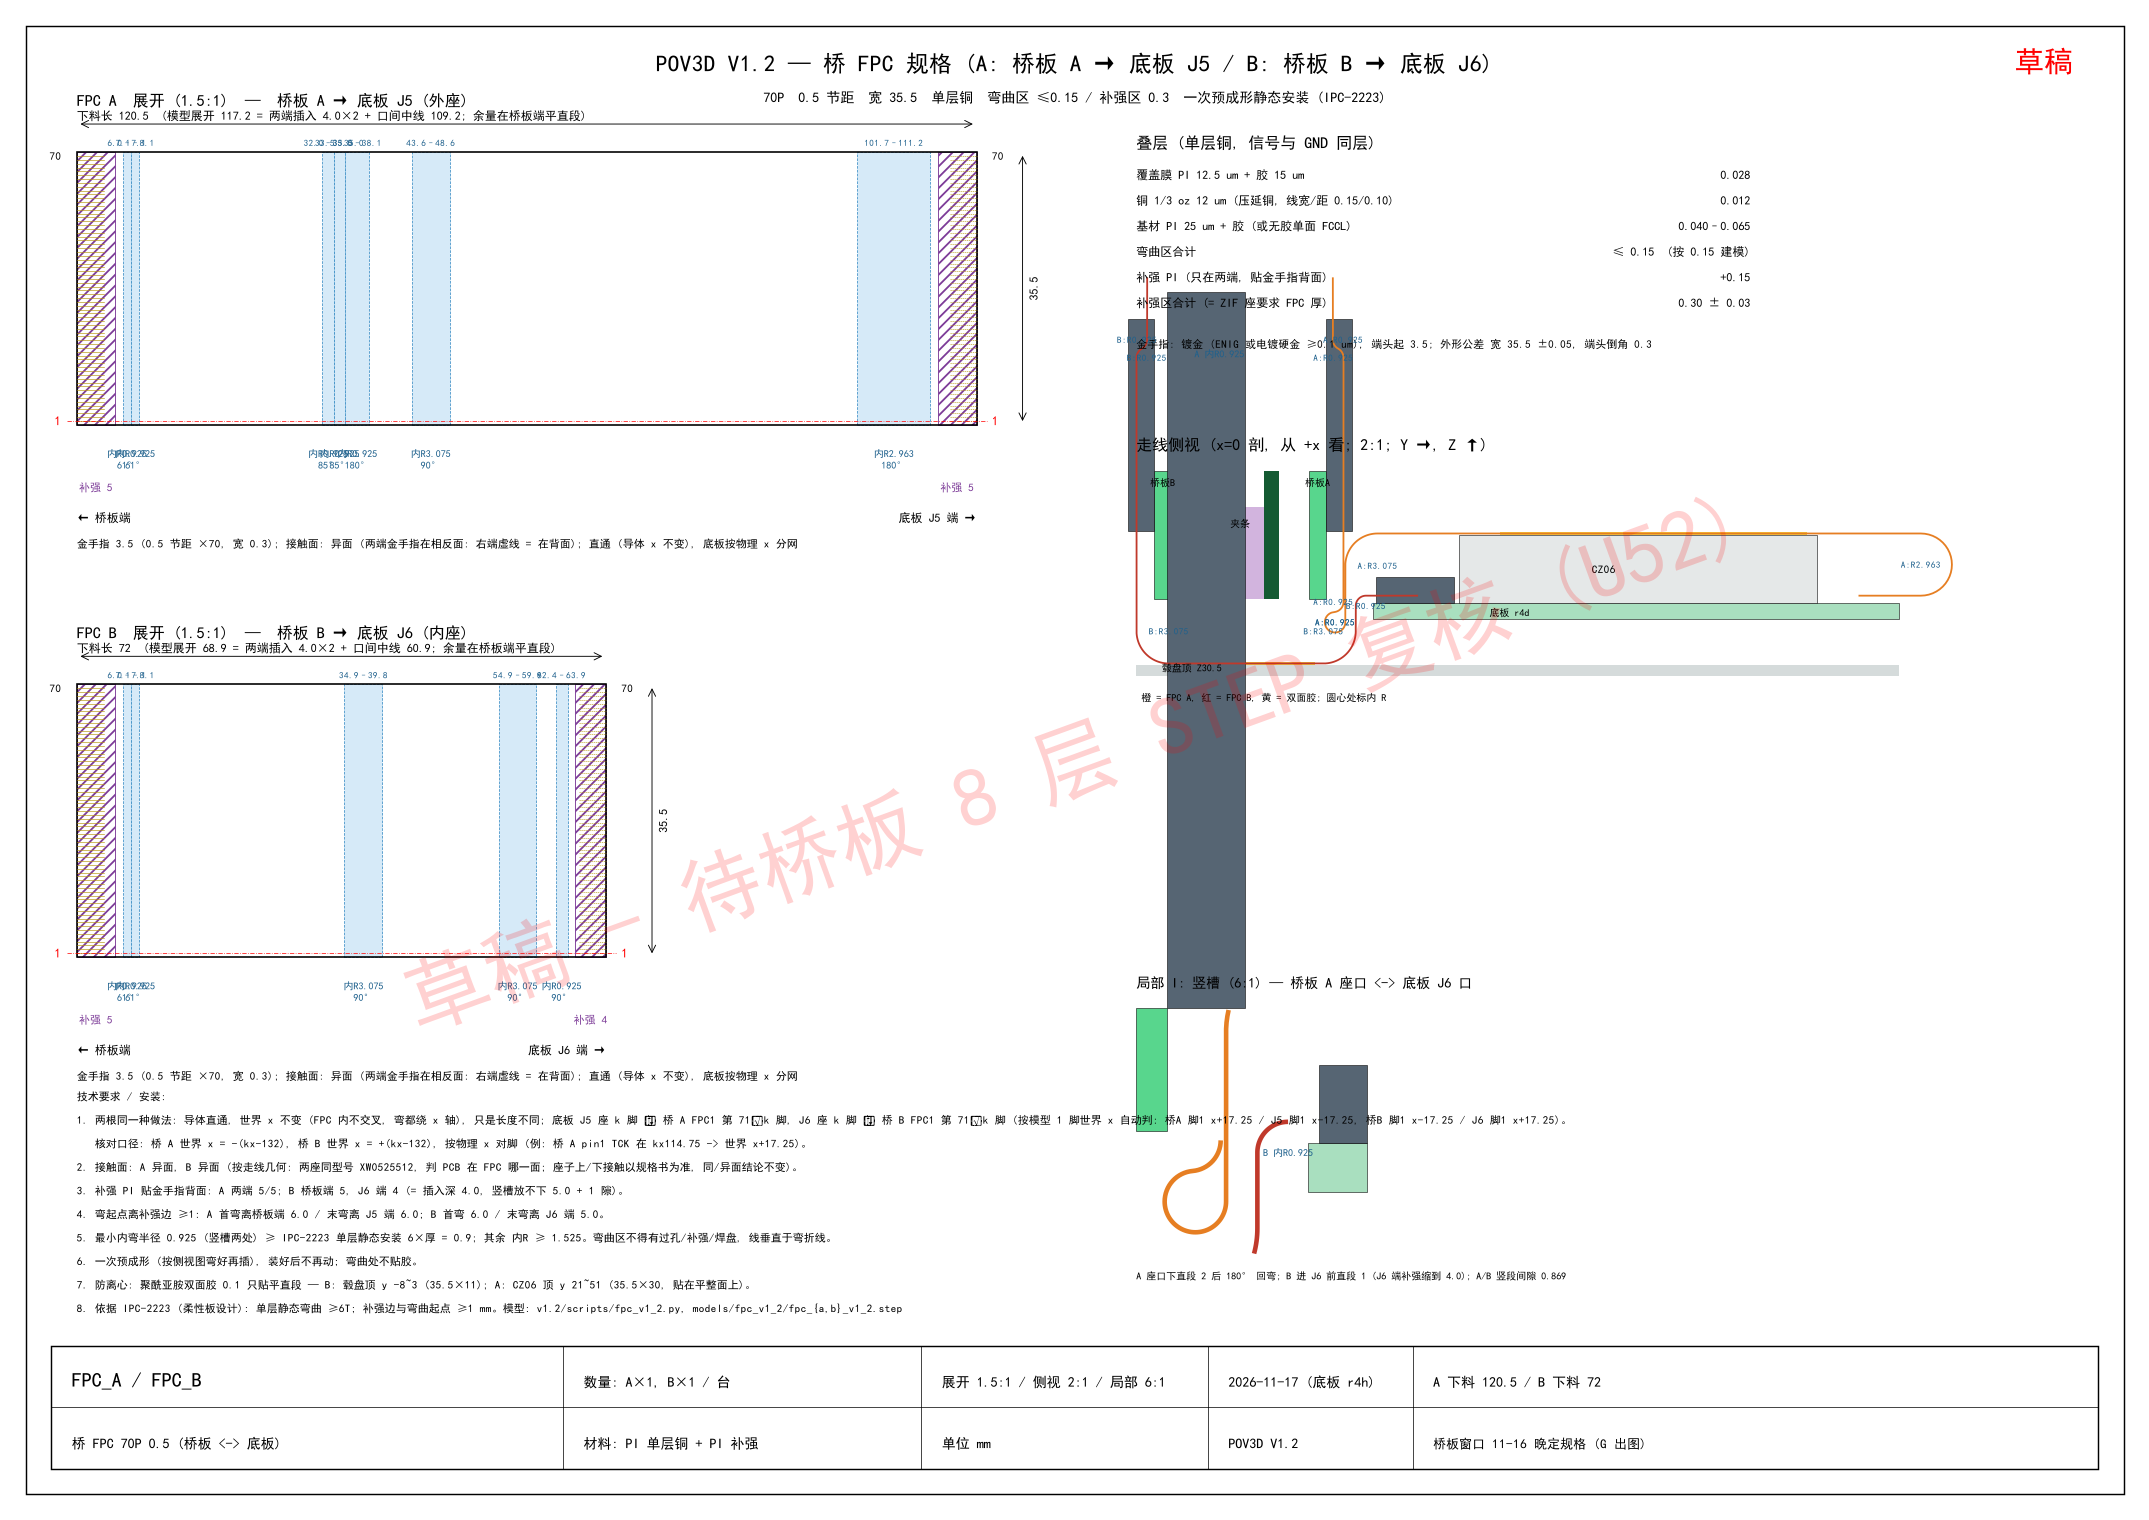
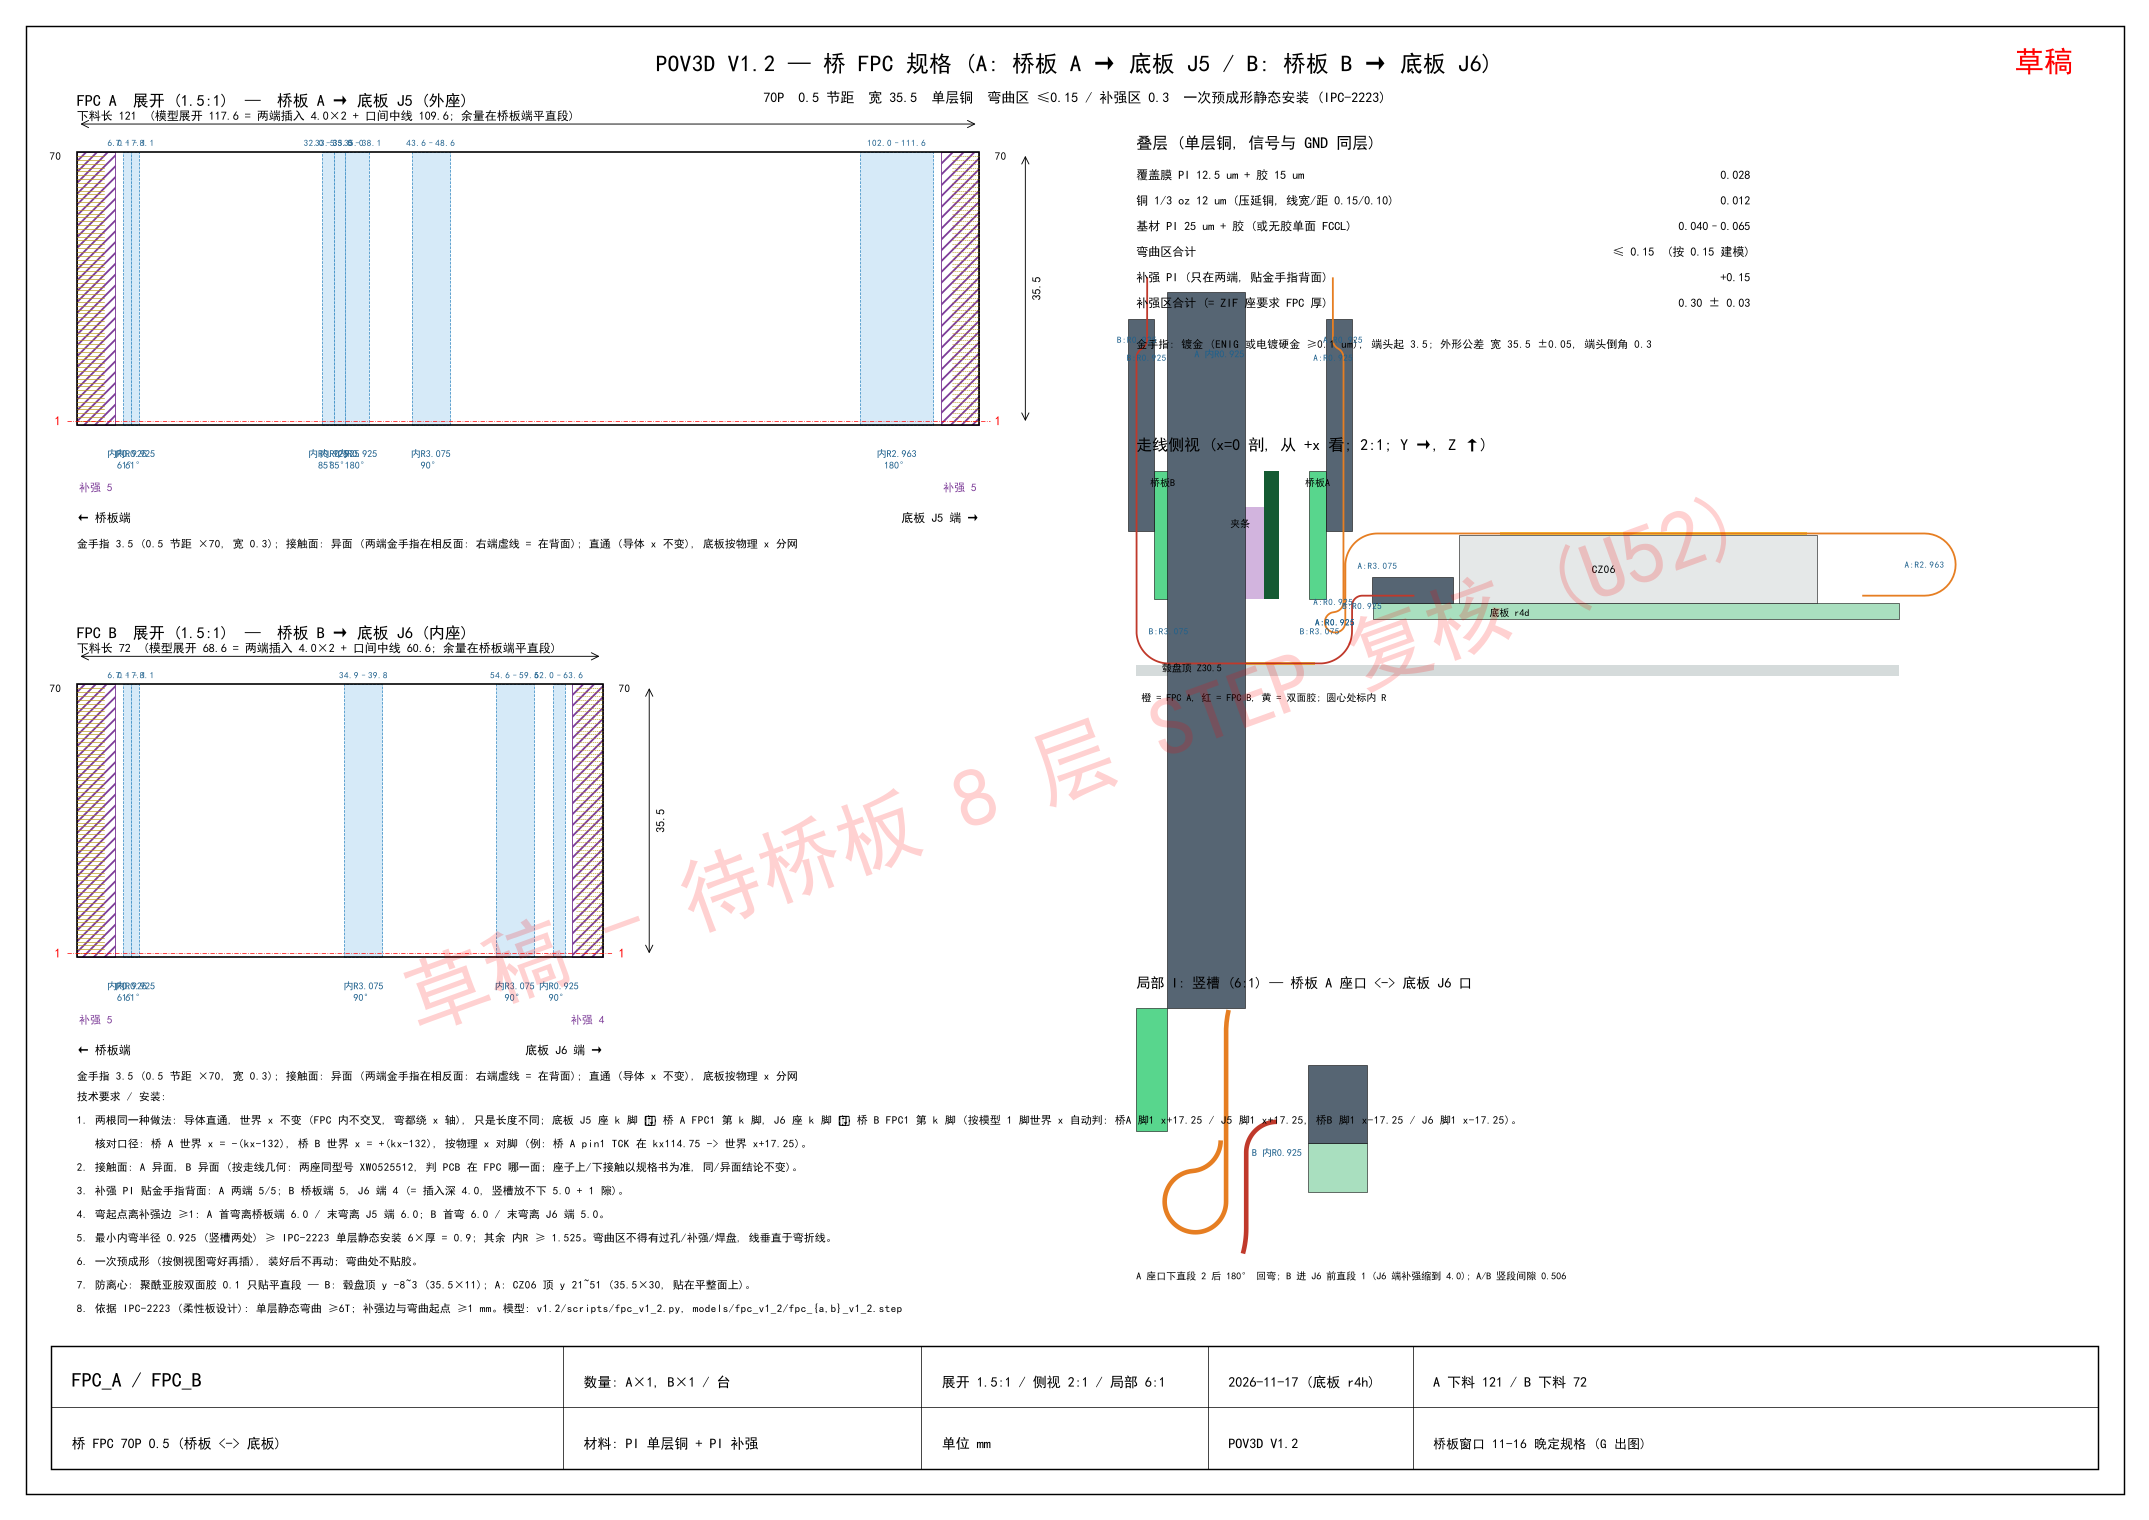
V1.2 FPC: 底板 r4j 换原厂封装后重跑, 线序 1 对 1 (座 k <-> 桥 FPC1 k); 加试算输出目录 FPC_OUT_DIR, 规格图被占用另存 .NEW
双层排线 (T0.2) 复核: 竖槽里最大内弯约 1.23 (约 6T), IPC 双层 7-10T 放不下, 待用户/硬件定方案

diff --git a/v1.2/scripts/fpc_v1_2.py b/v1.2/scripts/fpc_v1_2.py
@@ -55,6 +55,8 @@ assert BB_SEAT_MODE in ('same', 'out', 'in'), BB_SEAT_MODE
 OUT = B.V12 / 'models' / 'fpc_v1_2' / ('新朝向_桥板转180' if BRIDGE_FLIP else '')
 if BB_SEAT_MODE != 'same': OUT = B.V12 / 'models' / 'fpc_v1_2' / '底板座反向方案' / BB_SEAT_MODE
 if BB_SEAT_MODE == 'out' and BRIDGE_FLIP: OUT = B.V12 / 'models' / 'fpc_v1_2' / 'r4i_定稿'   # 11-17 默认 = r4i 两口朝外
+FPC_TRIAL = os.environ.get('FPC_OUT_DIR')                    # 11-18: 试算 (如双层厚度/弯半径) 输出到别处, 不覆盖定稿目录, 也不写整机 FPC走线 3MF
+if FPC_TRIAL: OUT = Path(FPC_TRIAL)
 
 # ---------------- 资料 ----------------
 BR_DIR = Path('/mnt/d/claude_workspace/pov3d/POV3D_V2桥_结构STEP与质量_2026-11-11')
@@ -710,7 +712,7 @@ def export():
         parts = [('玻纤板 fr4_plate_v1_2b', RB.fr4, '#C9B458', 0.05), ('承载盘 rim_ring_v1_2b', RB.rim, '#6AA84F', 0.05)] + \
                 [p for p in parts if not p[0].startswith(('转子毂盘', '承载盘', '立板'))] + \
                 [('屏幕固定件 +x screen_holder_v1_2b_a', RB.hold_a, '#F1C232', 0.03), ('屏幕固定件 −x screen_holder_v1_2b_b', RB.hold_b, '#E69138', 0.03)]
-    write3mf(str(B.V12 / ('assembly_v1_2_FPC走线.3mf' if BRIDGE_FLIP else 'assembly_v1_2_FPC走线_旧朝向.3mf')), parts)
+    if not FPC_TRIAL: write3mf(str(B.V12 / ('assembly_v1_2_FPC走线.3mf' if BRIDGE_FLIP else 'assembly_v1_2_FPC走线_旧朝向.3mf')), parts)
 
 
 def _sample(p, n=24):
@@ -861,7 +863,11 @@ def drawing():
     T(PW / 2, PH / 2, '草稿 - 待桥板 8 层 STEP 复核 (U52)' if BRIDGE_FLIP else '草稿 - 旧桥板朝向 (作废待重算)', 46, ha='center', va='center', color='red', alpha=0.18, rotation=20)
     T(PW - 15, PH - 14, '草稿', 16, ha='right', color='red')
     out = OUT / 'FPC_规格图_v1_2'
-    fig.savefig(f'{out}.pdf'); fig.savefig(f'{out}.png', dpi=130); plt.close(fig)
+    try:
+        fig.savefig(f'{out}.pdf')
+    except PermissionError:                      # 11-18: PDF 被阅读器占用 ⇒ 另存 .NEW.pdf, 不中断
+        fig.savefig(f'{out}.NEW.pdf'); print('  !! 被占用, 另存', f'{out}.NEW.pdf')
+    fig.savefig(f'{out}.png', dpi=130); plt.close(fig)
     return out
 
 
@@ -969,7 +975,11 @@ def combo():
     for i, t in enumerate(notes):
         T(300, 140 - 6 * i, t, 5.8)
     out = OUT / '组合图_桥板FPC_v1_2'
-    fig.savefig(f'{out}.pdf'); fig.savefig(f'{out}.png', dpi=130); plt.close(fig)
+    try:
+        fig.savefig(f'{out}.pdf')
+    except PermissionError:                      # 11-18: PDF 被阅读器占用 ⇒ 另存 .NEW.pdf, 不中断
+        fig.savefig(f'{out}.NEW.pdf'); print('  !! 被占用, 另存', f'{out}.NEW.pdf')
+    fig.savefig(f'{out}.png', dpi=130); plt.close(fig)
     return out
 
 
